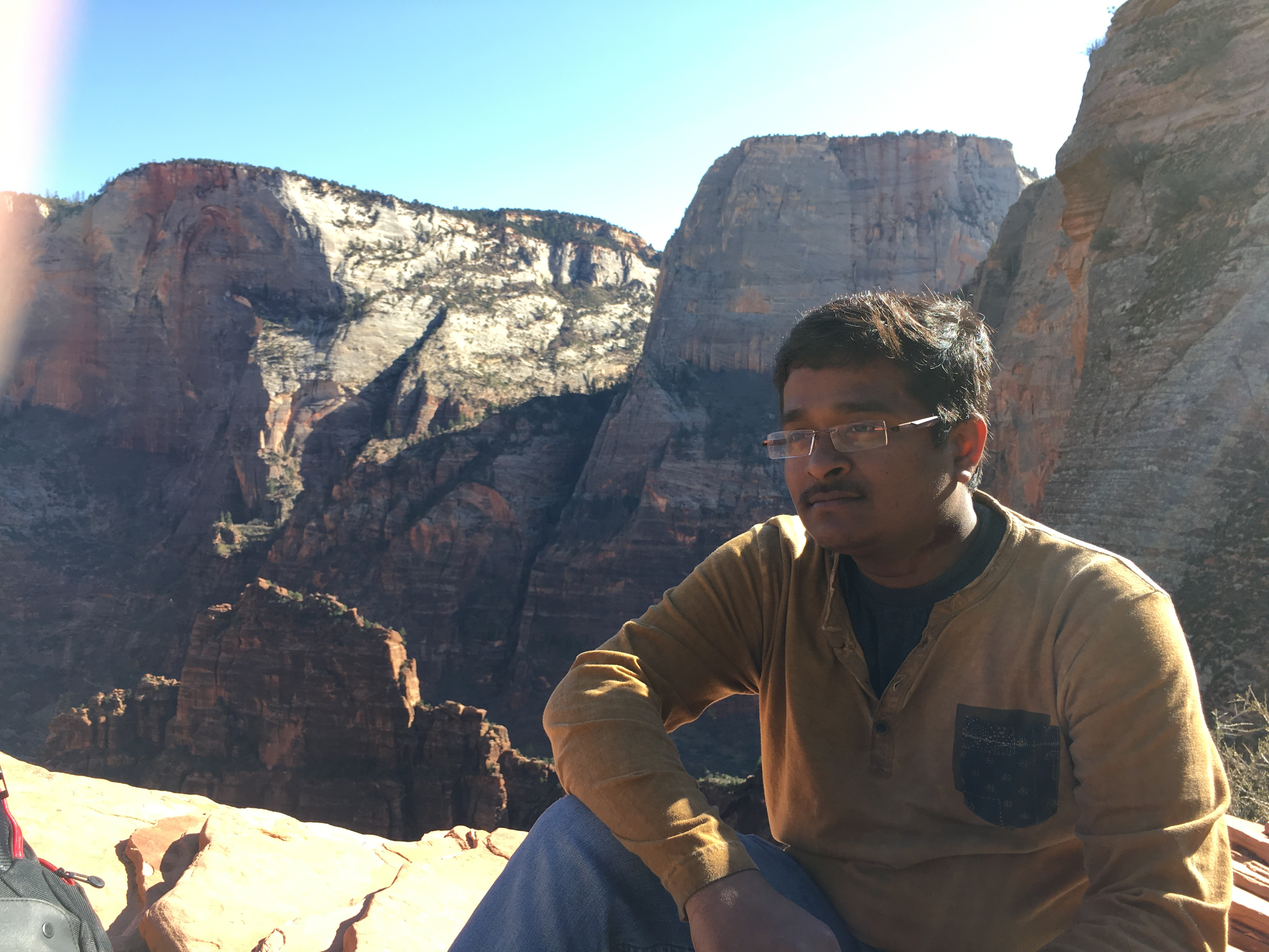
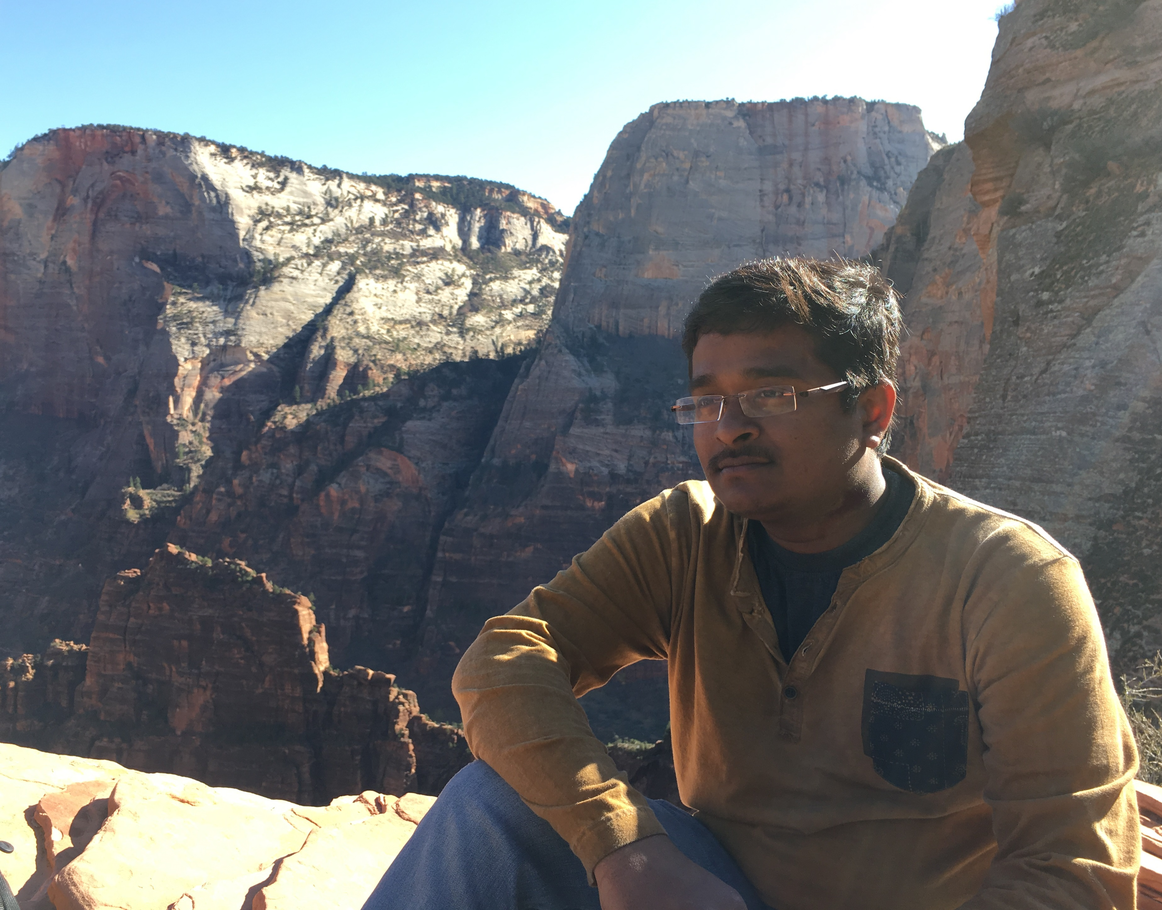
intro bg updated

diff --git a/css/style.css b/css/style.css
@@ -173,7 +173,7 @@ hr {
 	padding: 100px 0;
 	text-align: center;
 	color: #fff;
-	background: url(../img/intro-bg/sitting.png) no-repeat center top;
+	background: url(../img/intro-bg/sitting.png) no-repeat center center;
 	background-color: #7bc3d1;
 	-webkit-background-size: cover;
 	-moz-background-size: cover;
